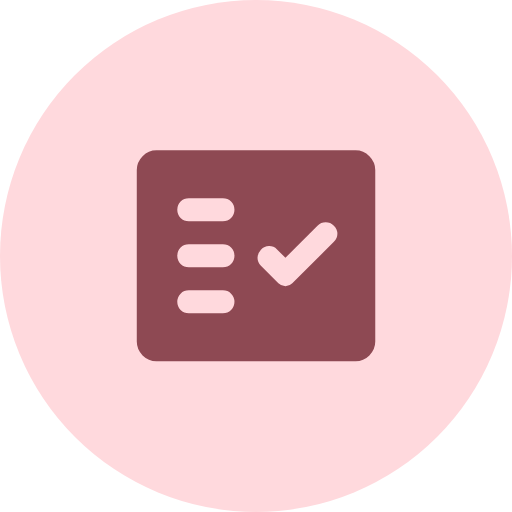
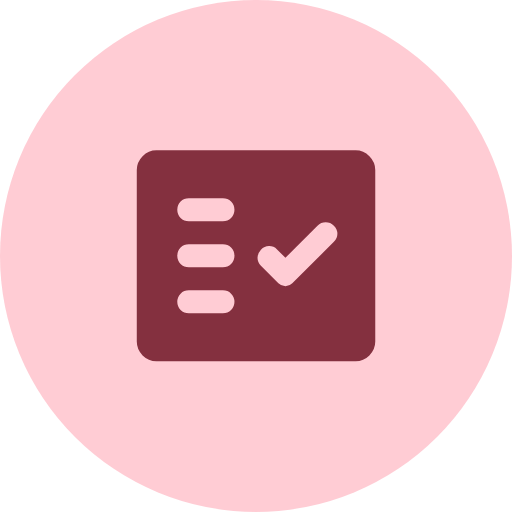
Íconos con los colores nuevos del estándar (rosa #FFCCD4, vino #84303F)
Claude-Session: https://claude.ai/code/session_01RxuB9vs623EuzMLeYyngVi

Changed region(s): [[0.25, 0.2812, 0.75, 0.7188]]

diff --git a/sw.js b/sw.js
@@ -1,7 +1,7 @@
 /* Service worker — permite abrir la app sin datos ni WiFi.
    Cada vez que publiques cambios en index.html, sube el número de VERSION
    para que los teléfonos descarguen la versión nueva. */
-const VERSION = 'ronda-gases-v13';
+const VERSION = 'ronda-gases-v14';
 const ARCHIVOS = ['./', 'index.html', 'manifest.json', 'icon-192.png', 'icon-512.png', 'icon-maskable-512.png'];
 
 self.addEventListener('install', e => {
